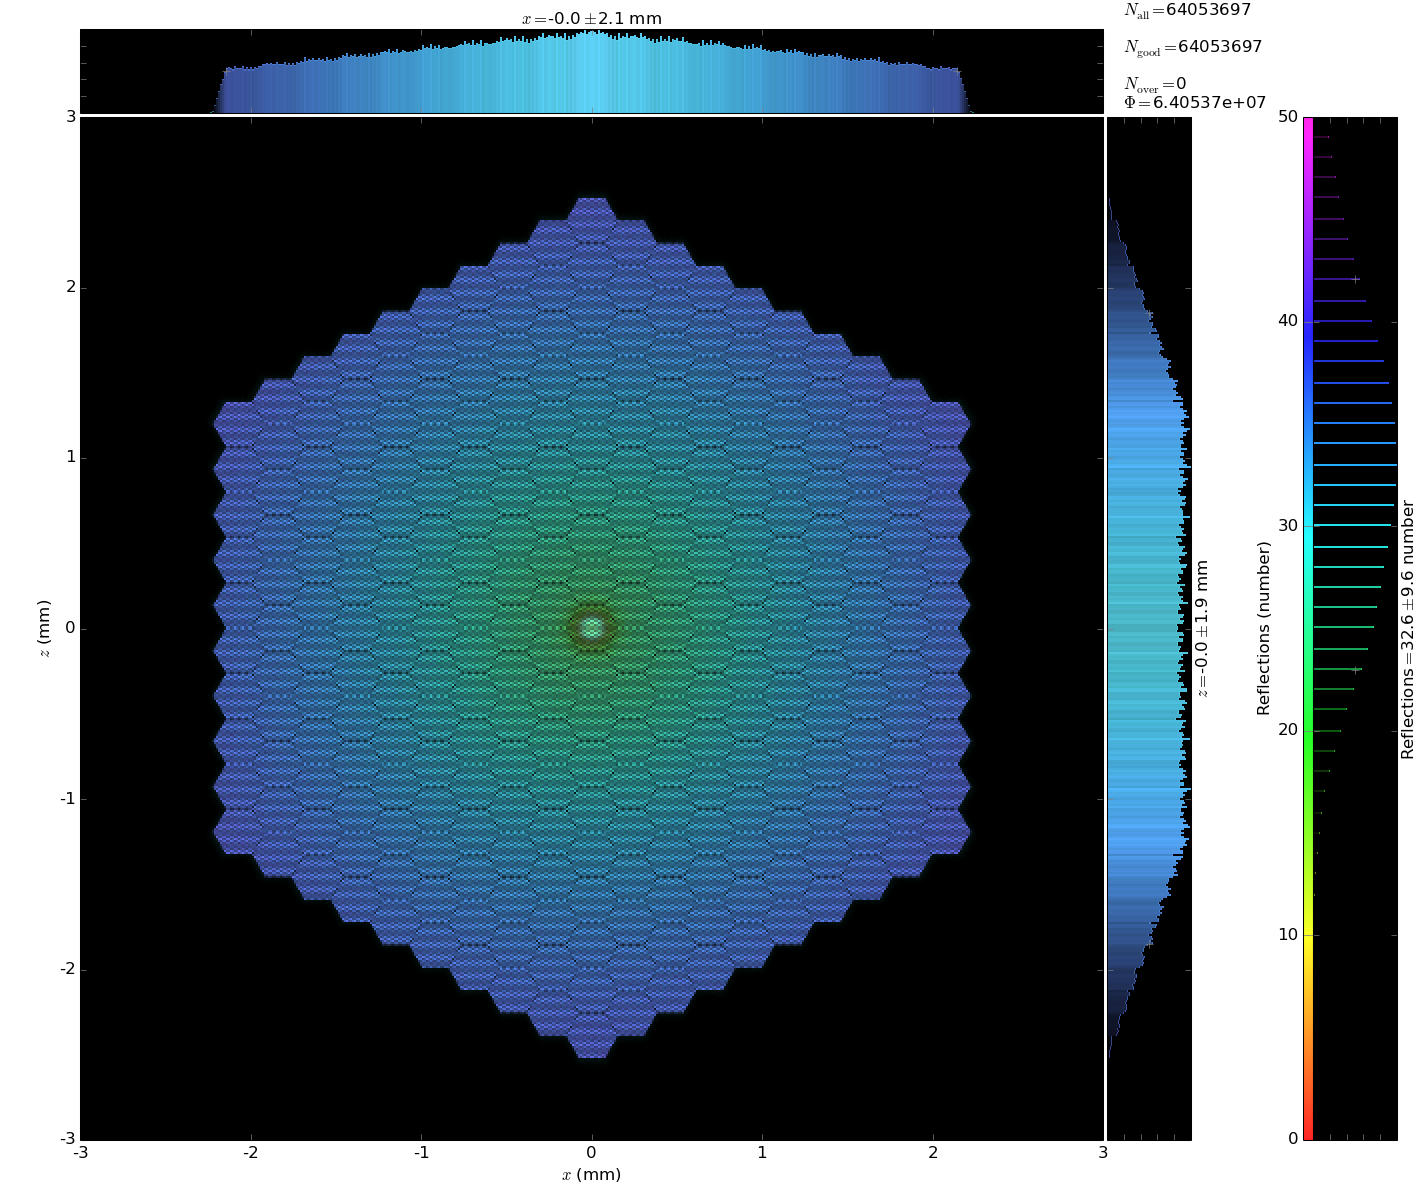
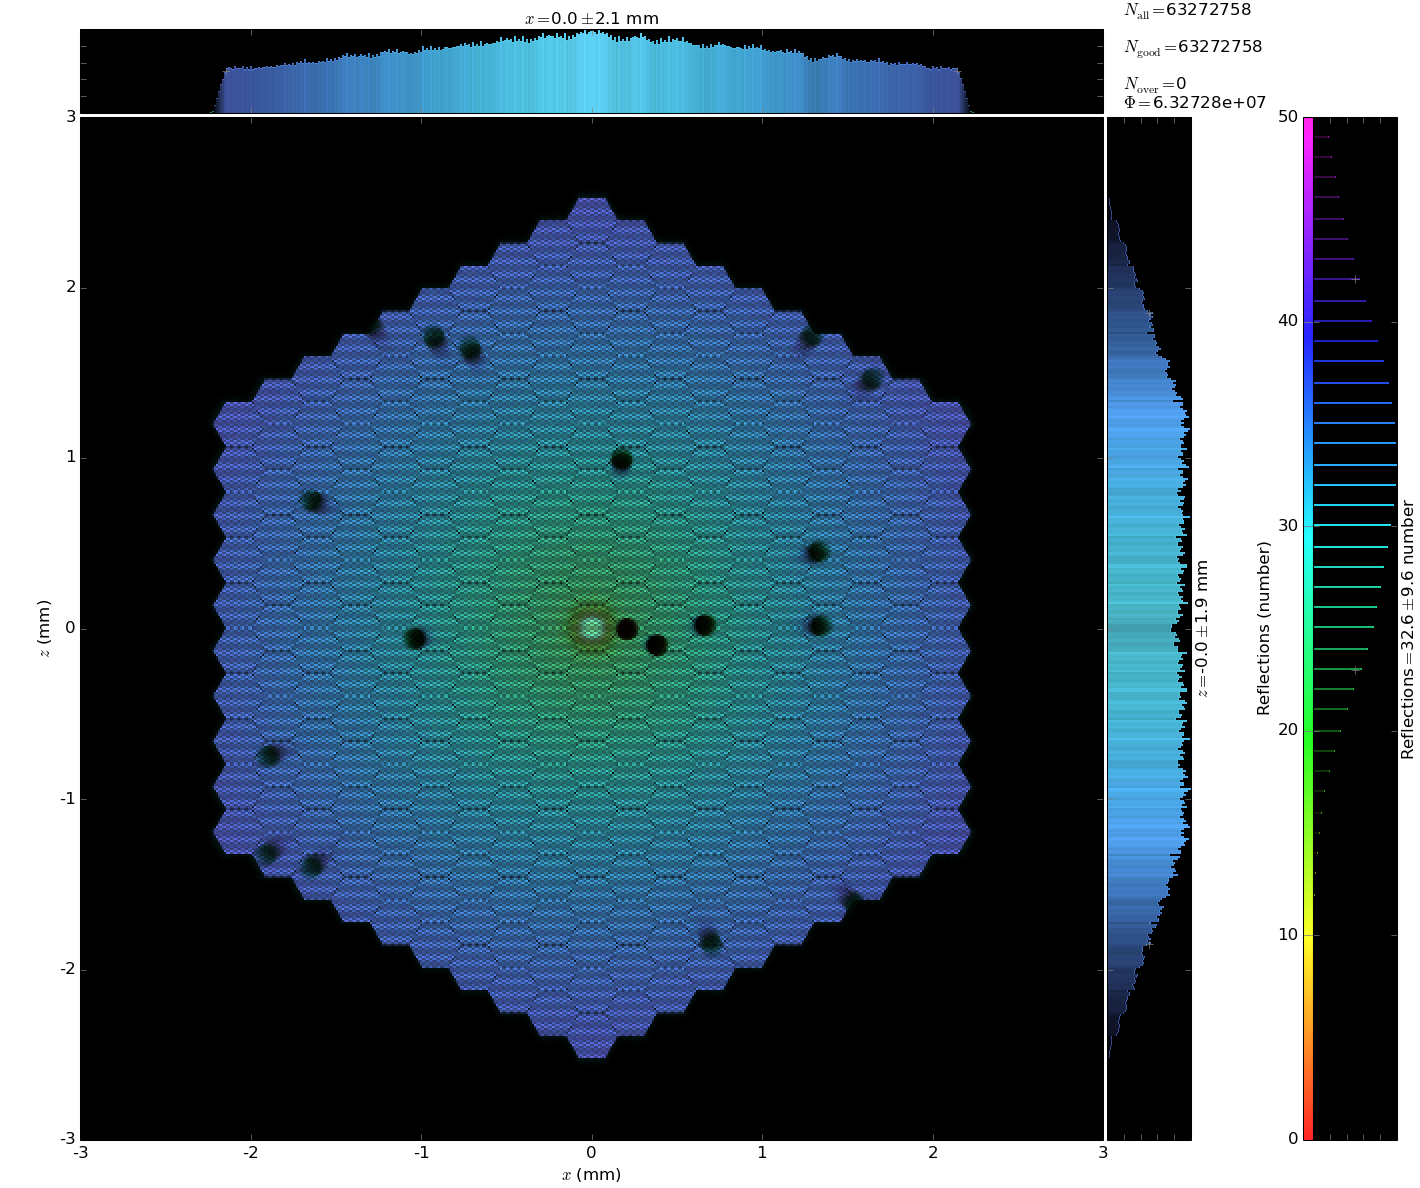
Better defects simulation

diff --git a/main.py b/main.py
@@ -98,7 +98,7 @@ if __name__ == '__main__':
     beam = ub.load_beam(directory)
 
     # Create defects
-    uc.create_defects(beam, 21)
+    beam = uc.create_defects(beam, 21)
     cp = up.BeamPlotter(beam)
     cp.set_save_name('png/defects_140.png')
     cp.set_limits([-3, 3])
@@ -109,10 +109,10 @@ if __name__ == '__main__':
     ub.move_beam_to(beam, 155)
 
     # Object interaction
-    ceam = uc.make_wires(beam, 0.077)
+    deam = uc.make_wires(beam, 0.077)
 
     # Save as png, only at the detector
-    cp = up.BeamPlotter(ceam)
+    dp = up.BeamPlotter(deam)
     # cp.set_save_name('png/triangle_at_focal_155.png'.format(position))
     # cp.set_limits([-0.5, 0.5])
     # cp.show(155)

diff --git a/utils/cutter.py b/utils/cutter.py
@@ -88,7 +88,7 @@ def create_defects(beam, howmany):
     dids = []
 
     # Define defect radius
-    d_rad = 0.01
+    d_rad = 0.065
 
     for it in range(howmany):
 	# Generate random positions from [-2 :: 2]
